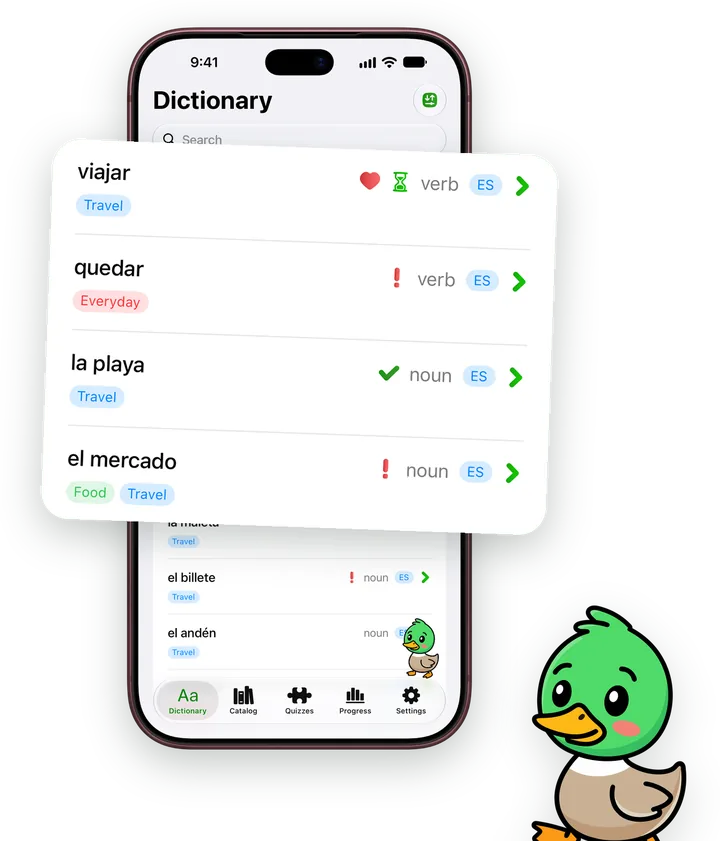
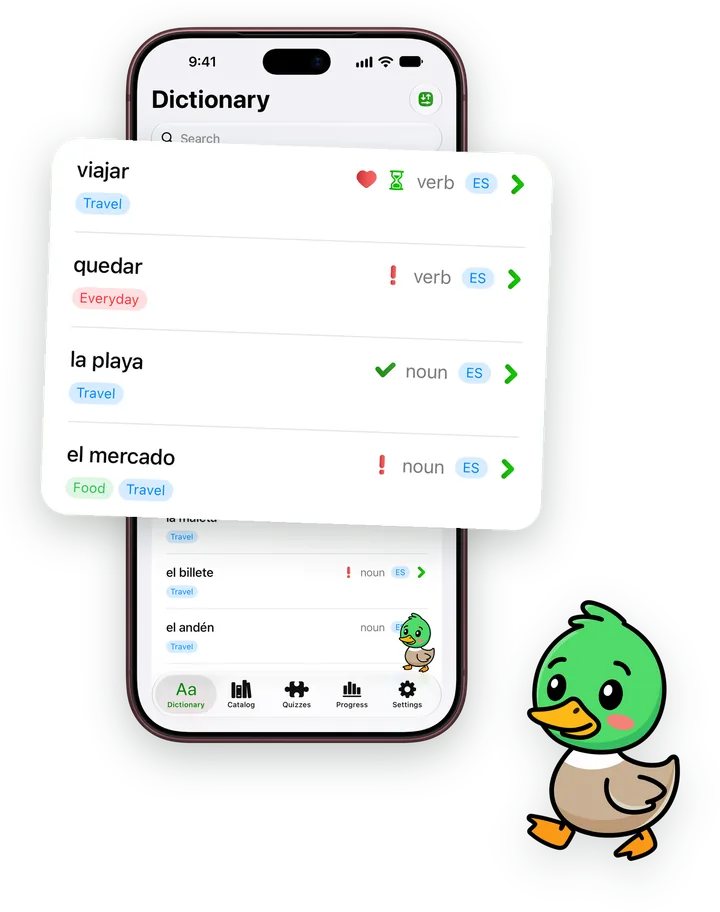
Section images: room for the ducks so none is cut off; check that nothing touches an image edge.

diff --git a/index.html b/index.html
@@ -89,7 +89,7 @@
                     </div>
                     <p class="rating"><span class="stars" aria-hidden="true">★★★★★</span><span><b>4.8</b> on the App Store · 101 ratings</span></p>
                 </div>
-                <img src="/images/site/hero.webp" srcset="/images/site/hero.webp 720w, /images/site/hero@2x.webp 1440w" sizes="(min-width: 900px) 520px, 92vw" width="720" height="793" alt="The word viajar in My Dictionary on iPhone, with its card and the reading duck" fetchpriority="high">
+                <img src="/images/site/hero.webp" srcset="/images/site/hero.webp 720w, /images/site/hero@2x.webp 1440w" sizes="(min-width: 900px) 520px, 92vw" width="720" height="781" alt="The word viajar in My Dictionary on iPhone, with its card and the reading duck" fetchpriority="high">
             </div>
         </section>
 
@@ -105,7 +105,7 @@
                         <li>Add ready-made collections in one go</li>
                     </ul>
                 </div>
-                <img class="reveal" src="/images/site/capture.webp" srcset="/images/site/capture.webp 720w, /images/site/capture@2x.webp 1440w" sizes="(min-width: 900px) 520px, 92vw" width="720" height="841" alt="Your word list with Spanish words and tags" loading="lazy">
+                <img class="reveal" src="/images/site/capture.webp" srcset="/images/site/capture.webp 720w, /images/site/capture@2x.webp 1440w" sizes="(min-width: 900px) 520px, 92vw" width="720" height="912" alt="Your word list with Spanish words and tags" loading="lazy">
             </div>
         </section>
 
@@ -137,7 +137,7 @@
                         <li>A fresh Daily Puzzle from your own words</li>
                     </ul>
                 </div>
-                <img class="reveal" src="/images/site/games.webp" srcset="/images/site/games.webp 720w, /images/site/games@2x.webp 1440w" sizes="(min-width: 900px) 520px, 92vw" width="720" height="959" alt="Match Pairs with a matched word and meaning" loading="lazy">
+                <img class="reveal" src="/images/site/games.webp" srcset="/images/site/games.webp 720w, /images/site/games@2x.webp 1440w" sizes="(min-width: 900px) 520px, 92vw" width="720" height="1059" alt="Match Pairs with a matched word and meaning" loading="lazy">
             </div>
         </section>
 
@@ -148,7 +148,7 @@
                     <h2>Watch your <span class="hl">streak</span> grow</h2>
                     <p>See your practice time, accuracy and what's due today, and watch words move from new to mastered.</p>
                 </div>
-                <img class="reveal" src="/images/site/progress.webp" srcset="/images/site/progress.webp 720w, /images/site/progress@2x.webp 1440w" sizes="(min-width: 900px) 520px, 92vw" width="720" height="649" alt="The Progress window with the day streak card" loading="lazy">
+                <img class="reveal" src="/images/site/progress.webp" srcset="/images/site/progress.webp 720w, /images/site/progress@2x.webp 1440w" sizes="(min-width: 900px) 520px, 92vw" width="720" height="668" alt="The Progress window with the day streak card" loading="lazy">
             </div>
         </section>
 
@@ -160,7 +160,7 @@
                     <p class="lede">The native Mac app syncs with your iPhone through iCloud. Its built-in MCP server lets AI assistants on your Mac search your dictionary — and add words with Pro.</p>
                     <a class="text-link" href="/docs/mcp/">Set up the MCP server</a>
                 </div>
-                <img class="reveal" src="/images/site/mac.webp" srcset="/images/site/mac.webp 960w, /images/site/mac@2x.webp 1920w" sizes="(min-width: 900px) 600px, 92vw" width="960" height="749" alt="My Dictionary on a MacBook with the MCP Server settings" loading="lazy">
+                <img class="reveal" src="/images/site/mac.webp" srcset="/images/site/mac.webp 960w, /images/site/mac@2x.webp 1920w" sizes="(min-width: 900px) 600px, 92vw" width="960" height="839" alt="My Dictionary on a MacBook with the MCP Server settings" loading="lazy">
             </div>
         </section>
 

diff --git a/scripts/build_images.py b/scripts/build_images.py
@@ -171,7 +171,7 @@ def main():
     green = (11, 138, 26, 255)
 
     # Hero: viajar on the phone, its word card popping out, the reading duck
-    c = Image.new("RGBA", (1500, 1500), (0, 0, 0, 0))
+    c = Image.new("RGBA", (1600, 2000), (0, 0, 0, 0))
     ph, m = phone(cap / "01-word-viajar.png", 640); o = (430, 40)
     place(c, ph, *o, shadow=0.3)
     pop(c, card(cut / "word-card-viajar.png", 1060), at(o, m, BOX["word-card-viajar"]), rotate=-2.5)
@@ -179,7 +179,7 @@ def main():
     save(c, "hero")
 
     # Capture: the word list with its rows popping out, the walking duck
-    c = Image.new("RGBA", (1500, 1500), (0, 0, 0, 0))
+    c = Image.new("RGBA", (1600, 2000), (0, 0, 0, 0))
     ph, m = phone(cap / "02-word-list.png", 640); o = (430, 40)
     place(c, ph, *o)
     pop(c, card(cut / "word-list-rows.png", 900, 0.04), at(o, m, BOX["word-list-rows"]), rotate=2)
@@ -187,14 +187,14 @@ def main():
     save(c, "capture")
 
     # Definitions: quedar and its first meaning popping out
-    c = Image.new("RGBA", (1500, 1500), (0, 0, 0, 0))
+    c = Image.new("RGBA", (1600, 2000), (0, 0, 0, 0))
     ph, m = phone(cap / "03-word-quedar.png", 640); o = (430, 40)
     place(c, ph, *o)
     pop(c, card(cut / "meaning-quedar.png", 1060), at(o, m, BOX["meaning-quedar"]), rotate=-2)
     save(c, "definitions")
 
     # Games: Match Pairs, the matched word and meaning popping out of their tiles
-    c = Image.new("RGBA", (1500, 1500), (0, 0, 0, 0))
+    c = Image.new("RGBA", (1600, 2000), (0, 0, 0, 0))
     ph, m = phone(cap / "05-match-pairs.png", 640); o = (500, 40)
     place(c, ph, *o)
     meaning = at(o, m, BOX["match-tile-meaning"])
@@ -206,14 +206,14 @@ def main():
     save(c, "games")
 
     # Progress: the Mac Progress window with its streak card popping out
-    c = Image.new("RGBA", (1500, 1500), (0, 0, 0, 0))
-    win, m = window(SRC / "mac" / "progress.png", 760); o = (400, 0)
+    c = Image.new("RGBA", (1600, 2000), (0, 0, 0, 0))
+    win, m = window(SRC / "mac" / "progress.png", 760); o = (400, 240)
     place(c, win, *o, shadow=0)
     pop(c, card(mac_cut / "streak-card.png", 1180, 0.04), at(o, m, BOX["streak-card"]), rotate=-2)
     save(c, "progress")
 
     # Mac: MacBook with the MCP Server settings, its card popping out, the celebrating duck
-    c = Image.new("RGBA", (2000, 1500), (0, 0, 0, 0))
+    c = Image.new("RGBA", (2100, 2000), (0, 0, 0, 0))
     mb, m = macbook(SRC / "mac" / "mcp.png", 1700); o = (150, 40)
     place(c, mb, *o, shadow=0.24)
     pop(c, card(mac_cut / "mcp-card.png", 900, 0.05), at(o, m, BOX["mcp-card"]), rotate=-2)
